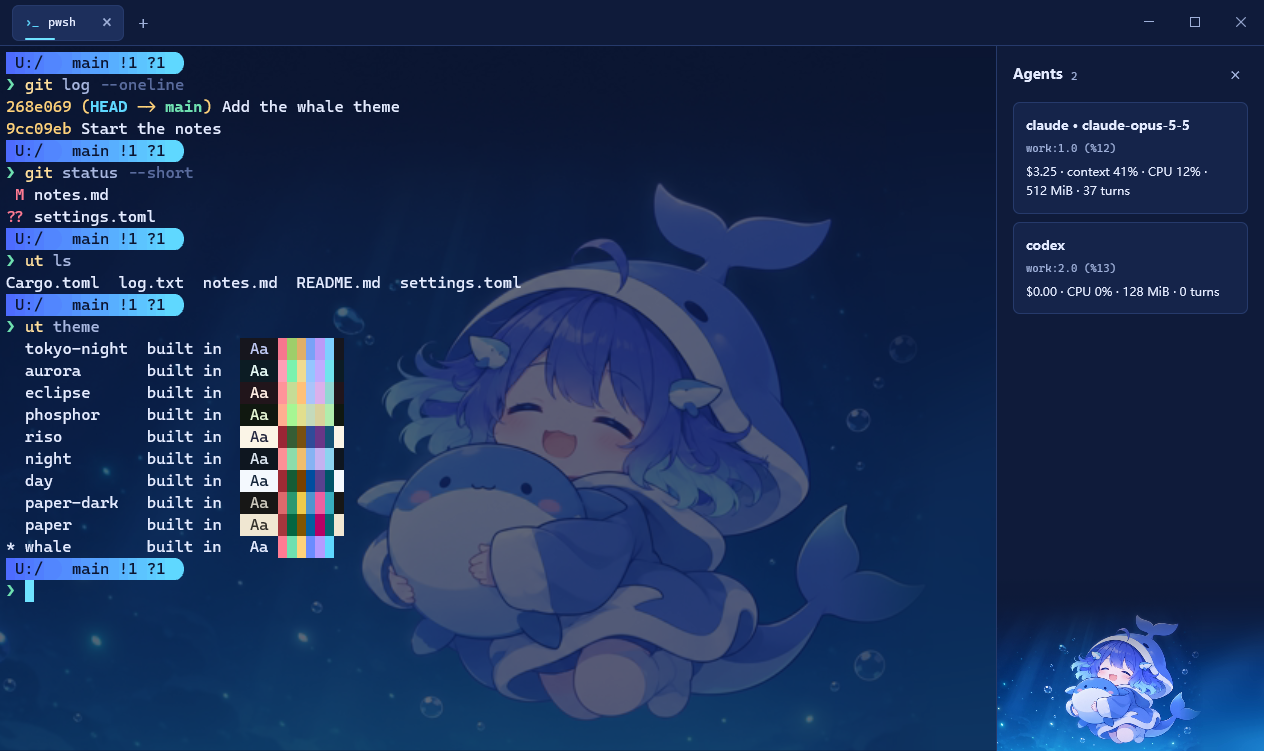
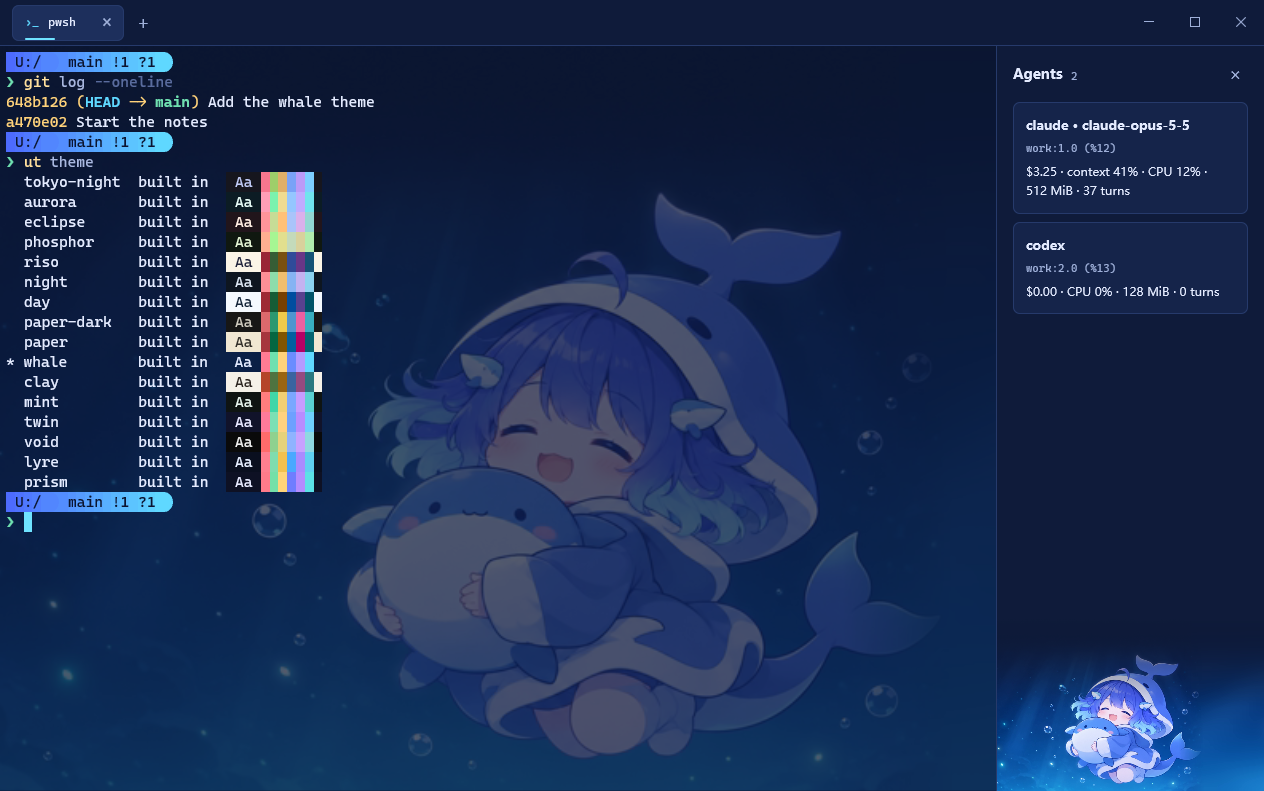
Six more themes with a character; the seven show it behind the text
clay, mint, twin, void, lyre and prism, each with an original character's
picture at the sidebar's foot. The seven themes with a character (whale too)
now give the same picture as the wallpaper, at 0.3; wallpaper = "" in the
settings takes it away. 16 built-in themes, 13 pictures.

diff --git a/crates/config/src/themes.rs b/crates/config/src/themes.rs
@@ -31,7 +31,7 @@ macro_rules! built_in {
 }
 
 /// The themes UnifyTerm brings, in the order they are listed: each one's name and its file.
-pub const BUILT_IN: [(&str, &str); 10] = [
+pub const BUILT_IN: [(&str, &str); 16] = [
     built_in!("tokyo-night"),
     built_in!("aurora"),
     built_in!("eclipse"),
@@ -42,6 +42,12 @@ pub const BUILT_IN: [(&str, &str); 10] = [
     built_in!("paper-dark"),
     built_in!("paper"),
     built_in!("whale"),
+    built_in!("clay"),
+    built_in!("mint"),
+    built_in!("twin"),
+    built_in!("void"),
+    built_in!("lyre"),
+    built_in!("prism"),
 ];
 
 /// Where a theme is.
@@ -205,8 +211,21 @@ pub fn passed_over(text: &str) -> Vec<String> {
 
 /// The files of UnifyTerm's own pictures: one for each built-in theme that
 /// has one, by the theme's name. The window has the pictures themselves.
-pub const PICTURES: [&str; 7] =
-    ["aurora.png", "eclipse.png", "phosphor.png", "riso.png", "night.png", "day.png", "whale.png"];
+pub const PICTURES: [&str; 13] = [
+    "aurora.png",
+    "eclipse.png",
+    "phosphor.png",
+    "riso.png",
+    "night.png",
+    "day.png",
+    "whale.png",
+    "clay.png",
+    "mint.png",
+    "twin.png",
+    "void.png",
+    "lyre.png",
+    "prism.png",
+];
 
 /// Where a picture is.
 #[derive(Debug, Clone, PartialEq, Eq)]
@@ -560,6 +579,15 @@ mod tests {
         for (name, _) in BUILT_IN.iter().filter(|(name, _)| !pictured.contains(name)) {
             assert_eq!(find(name, None).expect("built in").picture, None, "{name}");
         }
+        // A theme with a character shows it behind the text too; the preview page's six do not.
+        for name in ["whale", "clay", "mint", "twin", "void", "lyre", "prism"] {
+            let theme = find(name, None).expect("built in");
+            assert_eq!(theme.wallpaper.as_deref(), Some(format!("{name}.png").as_str()), "{name}");
+            assert_eq!(theme.wallpaper_opacity, Some(0.3), "{name}");
+        }
+        for name in ["aurora", "eclipse", "phosphor", "riso", "night", "day"] {
+            assert_eq!(find(name, None).expect("built in").wallpaper, None, "{name}");
+        }
     }
 
     #[test]
@@ -588,6 +616,12 @@ mod tests {
             ("paper-dark", true),
             ("paper", true),
             ("whale", true),
+            ("clay", true),
+            ("mint", true),
+            ("twin", true),
+            ("void", true),
+            ("lyre", true),
+            ("prism", true),
             ("mine", false),
         ];
         assert_eq!(names, wanted.map(|(name, built_in)| (name.to_owned(), built_in)));
@@ -601,7 +635,7 @@ mod tests {
         let said = |name: &str| format!("{:#}", find(name, Some(folder.path())).expect_err("refused"));
         assert_eq!(
             said("nosuch"),
-            "no theme is called nosuch: there is tokyo-night, aurora, eclipse, phosphor, riso, night, day, paper-dark, paper, whale"
+            "no theme is called nosuch: there is tokyo-night, aurora, eclipse, phosphor, riso, night, day, paper-dark, paper, whale, clay, mint, twin, void, lyre, prism"
         );
         assert!(said("../day").contains("is not a theme's name"), "a name never leaves the folder");
         std::fs::write(file_of("broken", folder.path()), "[theme]\nforeground = 1").expect("write");

diff --git a/crates/unifyterm/src/art.rs b/crates/unifyterm/src/art.rs
@@ -1,13 +1,15 @@
 //! The picture at the foot of the sidebar: the one the look in use names.
 //!
-//! A theme (or the settings) names a picture's file. UnifyTerm brings seven
+//! A theme (or the settings) names a picture's file. UnifyTerm brings 13
 //! pictures of its own: one for each of its themes with a preview page
-//! (`demo/appearance.html`), and `whale.png`; they are in the program, and a
-//! theme names one the same way it names a file of the user's own.
+//! (`demo/appearance.html`), and one for each theme with a character
+//! (`whale`, `clay`, `mint`, `twin`, `void`, `lyre`, `prism`); they are in
+//! the program, and a theme names one the same way it names a file of the
+//! user's own.
 //!
-//! `whale.png` is a drawing of an original character, made for UnifyTerm with
-//! an image model and cut to the same 960 by 496 pixels, the character in the
-//! middle and low, where the sidebar's strip shows it.
+//! A character's picture is a drawing of an original character, made for
+//! UnifyTerm with an image model and cut to the same 960 by 496 pixels, the
+//! character in the middle and low, where the sidebar's strip shows it.
 //!
 //! The other six are what the preview page draws, made by that page's own
 //! drawing code at twice the page's size (960 by 496 pixels) and saved as
@@ -32,7 +34,7 @@ macro_rules! own {
 }
 
 /// UnifyTerm's own pictures by their files' names: the ones `unifyterm-config` lists.
-const OWN: [(&str, &[u8]); 7] = [
+const OWN: [(&str, &[u8]); 13] = [
     own!("aurora.png"),
     own!("eclipse.png"),
     own!("phosphor.png"),
@@ -40,6 +42,12 @@ const OWN: [(&str, &[u8]); 7] = [
     own!("night.png"),
     own!("day.png"),
     own!("whale.png"),
+    own!("clay.png"),
+    own!("mint.png"),
+    own!("twin.png"),
+    own!("void.png"),
+    own!("lyre.png"),
+    own!("prism.png"),
 ];
 
 /// A picture's file is not read past this: a picture for a strip 268 pixels wide is far below it.

diff --git a/README.md b/README.md
@@ -185,17 +185,15 @@ UnifyTerm reads the file again whenever it changes, by `ut setting` or by an edi
 
 **Keys.** A key in `[keys]` may be written as you would say it (`Ctrl+Shift+G`): `ut setting` keeps it as `ctrl-shift-g`. The keys held are `ctrl`, `alt`, `shift` and `cmd` (the Windows key on a PC). A letter, a digit or a sign needs Ctrl, Alt or Cmd with it, and so do Enter, Tab, Esc and the arrows: alone, or with Shift only, they are what the shell is typed to with, and are refused. A function key and Insert may stand alone. A key cannot be given to two commands. A key another program has taken for the whole system (a screenshot key) never reaches UnifyTerm: give the command another one, as `ut setting set keys.agents ctrl-alt-a`.
 
-**Themes.** A theme is a set of colors under a name. UnifyTerm has ten: `tokyo-night` (in use until you choose another), `aurora`, `eclipse`, `phosphor`, `night`, `paper-dark` and `whale` (哦鲸鲸), which are dark, and `riso`, `day` and `paper`, which are light. `paper-dark` and `paper` are keepane's own two looks, with its colors. `ut theme` lists them with a sample of each one's colors; `ut theme NAME` uses one. Every open window changes at once, and the next time UnifyTerm opens it has that theme: the name is the setting `theme.name`. `demo/appearance.html` shows six of them in a browser, and the window's colors are the ones on that page.
+**Themes.** A theme is a set of colors under a name. UnifyTerm has 16: `tokyo-night` (in use until you choose another), `aurora`, `eclipse`, `phosphor`, `night`, `paper-dark`, `whale` (哦鲸鲸), `mint` (薄荷), `twin` (双子), `void` (虚空), `lyre` (缪缪) and `prism` (谱谱), which are dark, and `riso`, `day`, `paper` and `clay` (陶陶), which are light. `paper-dark` and `paper` are keepane's own two looks, with its colors. The seven with a Chinese name each have a character of their own in their picture. `ut theme` lists them with a sample of each one's colors; `ut theme NAME` uses one. Every open window changes at once, and the next time UnifyTerm opens it has that theme: the name is the setting `theme.name`. `demo/appearance.html` shows six of them in a browser, and the window's colors are the ones on that page.
 
-A theme of your own is a file `NAME.toml` in the `themes` folder beside the settings file (`ut theme directory` prints it), with a table `[theme]` and the keys of the table above, all but `name`. It must give `foreground`, `background` and `ansi`. It may give `cursor`, `selection` and the colors around the text (`bar`, `panel`, `well`, `rule`, `edge`, `muted`, `symbol`): one it leaves out is worked out from the foreground and the background (the cursor is the text's color). It may also give what is not a color: `opacity`, `blur`, `rounding`, `corners`, and two pictures, each a file beside the theme's own (PNG, JPEG, WebP, GIF, BMP, SVG or TIFF, at most 16 MB): `picture`, shown at the foot of the sidebar, and `wallpaper`, drawn behind the text over the whole window. The text is drawn over the wallpaper as it is: `wallpaper_opacity` (0.25 until you say) keeps the picture faint enough to read on. A table `[prompt]` beside `[theme]` says how the prompt looks in this theme, with the keys of the settings' `[prompt]` but `enabled` (see [The prompt](#the-prompt)). UnifyTerm's own seven pictures are found by their names from any folder, so a copy of a built-in theme keeps its picture. A key this version does not know is passed over, and `ut theme check` names it: a theme written for a later UnifyTerm still works in this one. `ut theme new NAME` begins one as a copy of the theme in use, and `ut theme show NAME` prints any theme's file. A window that uses your theme follows its file as you save it. A name is small letters, digits and `-`; your file with a built-in theme's name is used in that theme's place.
+A theme of your own is a file `NAME.toml` in the `themes` folder beside the settings file (`ut theme directory` prints it), with a table `[theme]` and the keys of the table above, all but `name`. It must give `foreground`, `background` and `ansi`. It may give `cursor`, `selection` and the colors around the text (`bar`, `panel`, `well`, `rule`, `edge`, `muted`, `symbol`): one it leaves out is worked out from the foreground and the background (the cursor is the text's color). It may also give what is not a color: `opacity`, `blur`, `rounding`, `corners`, and two pictures, each a file beside the theme's own (PNG, JPEG, WebP, GIF, BMP, SVG or TIFF, at most 16 MB): `picture`, shown at the foot of the sidebar, and `wallpaper`, drawn behind the text over the whole window. The text is drawn over the wallpaper as it is: `wallpaper_opacity` (0.25 until you say) keeps the picture faint enough to read on. A table `[prompt]` beside `[theme]` says how the prompt looks in this theme, with the keys of the settings' `[prompt]` but `enabled` (see [The prompt](#the-prompt)). UnifyTerm's own 13 pictures are found by their names from any folder, so a copy of a built-in theme keeps its picture. A key this version does not know is passed over, and `ut theme check` names it: a theme written for a later UnifyTerm still works in this one. `ut theme new NAME` begins one as a copy of the theme in use, and `ut theme show NAME` prints any theme's file. A window that uses your theme follows its file as you save it. A name is small letters, digits and `-`; your file with a built-in theme's name is used in that theme's place.
 
-The theme `whale` with its picture behind the text too, and the agents' sidebar open (Ctrl-Shift-A): the theme's own picture is at the sidebar's foot. The settings file has these lines:
+The seven themes with a character show its picture behind the text and at the foot of the agents' sidebar (Ctrl-Shift-A). Below is `whale` with UnifyTerm's prompt on; the settings file has these lines (`wallpaper = ""` under `[theme]` would take the picture away from behind the text):
 
 ```toml
 [theme]
 name = "whale"
-wallpaper = "whale.png"
-wallpaper_opacity = 0.35
 
 [prompt]
 enabled = true

diff --git a/docs/verification-log.md b/docs/verification-log.md
@@ -1,15 +1,17 @@
 # 验收记录
 
-## 2026-11-26 · 0.7.1：主题 whale（哦鲸鲸）
+## 2026-11-26 · 0.7.1：七套带角色的主题（whale 哦鲸鲸 等）
 
-用户："可不可以增加一套鲸鱼娘的主题"；名字"主题名可以用 whale"，"显示用中文名"，"就叫哦鲸鲸吧"；"终端背景和侧边栏背景的这个例子，在 readme 里也展示一下"。看过本地 demo 后定稿。
+用户："可不可以增加一套鲸鱼娘的主题"；名字"主题名可以用 whale"，"显示用中文名"，"就叫哦鲸鲸吧"；"终端背景和侧边栏背景的这个例子，在 readme 里也展示一下"；"把 claude、gpt、gemini、grok、muse、glm 的二次元娘形象也分别做一套主题配置"；看过预览页后"这些主题都可以，默认带显示背景图吧"。
 
 做了什么：
 
-- `demo/themes/whale.toml`：深海蓝配色，提示符 rainbow、圆分隔符、整体从 `#4d6bfe` 渐变到 `#5fd8ff`。不设 `shine`：内置主题不替用户打开光效（已有测试守着这条）。
-- `demo/themes/whale.png`：原创角色，用图像模型（ChatGPT）画，裁成 960×496，人物居中靠下（侧栏图片区按铺满居中裁剪，上半部分被侧栏颜色盖住）。不用 DeepSeek 的标志，也不用别人画的同人图。
-- 代码只加列表项：`BUILT_IN` 9 → 10，`PICTURES` 6 → 7，窗口自带的图 6 → 7；测试里的主题名单加 `whale`。
-- README：主题十套；带背景图和侧栏图的例子，截图 `docs/media/theme-whale.png`（真实窗口，演示盘 `U:\`，不含本机路径）。
+- 7 个主题文件，各带一个原创角色的图：`whale`（哦鲸鲸，深海蓝）、`clay`（陶陶，浅色，陶土橙）、`mint`（薄荷，黑底青绿）、`twin`（双子，蓝紫粉）、`void`（虚空，黑白）、`lyre`（缪缪，深蓝和金）、`prism`（谱谱，靛蓝到青）。配色借原型的品牌色，名字和图都不用品牌名和标志。
+- 图：whale、clay、mint、twin、void 由 ChatGPT 网页版画（额度用完后停）；lyre、prism 由群聊里的 blog 画。原图 1536×1024，裁成 960×496（缩到宽 960 后靠下裁），人物居中靠下：侧栏图片区按铺满居中裁剪，上半部分被侧栏颜色盖住。不用别人画的同人图。
+- 这 7 套默认显示背景图：`wallpaper = "<名字>.png"`、`wallpaper_opacity = 0.3`；设置里 `wallpaper = ""` 关掉。不设 `shine`：内置主题不替用户打开光效（已有测试守着这条）。
+- 对比度（WCAG）：正文 13.2–16.8，次要文字 5.5–8.8；12 个彩色里最低的，深色 5.4–7.5，浅色 clay 3.3（亮色组）。
+- 代码只加列表项：`BUILT_IN` 9 → 16，`PICTURES` 6 → 13，窗口自带的图 6 → 13；测试里的主题名单加 7 个；新测试：7 套带角色的主题有背景图且透明度 0.3，预览页的 6 套没有。
+- README：主题 16 套；例子和截图 `docs/media/theme-whale.png`（真实窗口，演示盘 `U:\`，不含本机路径）。
 
 验收（用户 2026-11-26 定：这次只加主题和列表项，效果一致即可，不再跑多轮；全量交给 CI）：
 
@@ -17,13 +19,14 @@
 |---|---|---|---|
 | 1 | 静态一致性 | 读 diff；查所有列出主题名的地方 | 5 处列表都有 `whale`；`ut` 里另 3 个文件的名单都从 `BUILT_IN` 推出，不用改。docs-check 4/4；`unifyterm-config` 43/43、`ut` 117/117、`art` 2/2；clippy、fmt 干净 |
 | 2 | 机制通路 | release 版真实窗口取色；`ut prompt` 看转义 | 文字区 `#0b1530`、侧栏 `#0f1b3a`，与主题文件一致；侧栏图片区不是侧栏色的像素：有图 5760、`picture = ""` 时 0；背景图：文字区 3826 种颜色（关掉时 1 种）；`ut prompt` 第一段底色 `48;2;77;107;254`，有圆分隔符 |
+| 3 | 机制通路（新 6 套） | 每套开两次真实窗口：主题自带背景图，和设置里 `wallpaper = ""` | 6/6 通过：侧栏色、文字区底色都和主题文件一致；侧栏图片区 5760 个像素不是侧栏色；文字区颜色数：带背景图 988–6827，关掉 1。16 套的配置测试 43/43，`ut` 117/117，`art` 2/2，clippy、fmt 干净 |
 
 第 2 轮两项失败，都是检查脚本的错，代码没改：
 
 - 侧栏取色点 (1100,300) 落在 codex 卡片的文字上（读到 `#54648b`）。换空白处 (1100,450)，读到 `#0f1b3a`。
 - 背景图"没画出来"：脚本把第一张截图存成了设置文件旁的 `whale.png`。按规则旁边的同名文件优先于自带的图，那张截图的文字区是纯底色，叠上去看不出。同一个 exe 在干净目录里重拍，背景图正常（3826 种颜色）；`aurora.png` 在原目录也正常（1580 种）。
 
-遗留：macOS、Linux 上没有看过这套主题的画面。
+遗留：macOS、Linux 上没有看过这些主题的画面。`void` 的人物站得高，侧栏图片区里脸在被侧栏颜色盖住的那一段，露出的是腿和石头（用户看过预览，没要求改）。
 
 ## 2026-11-26 · 0.7.0：主题配置的提示符（M12）
 
